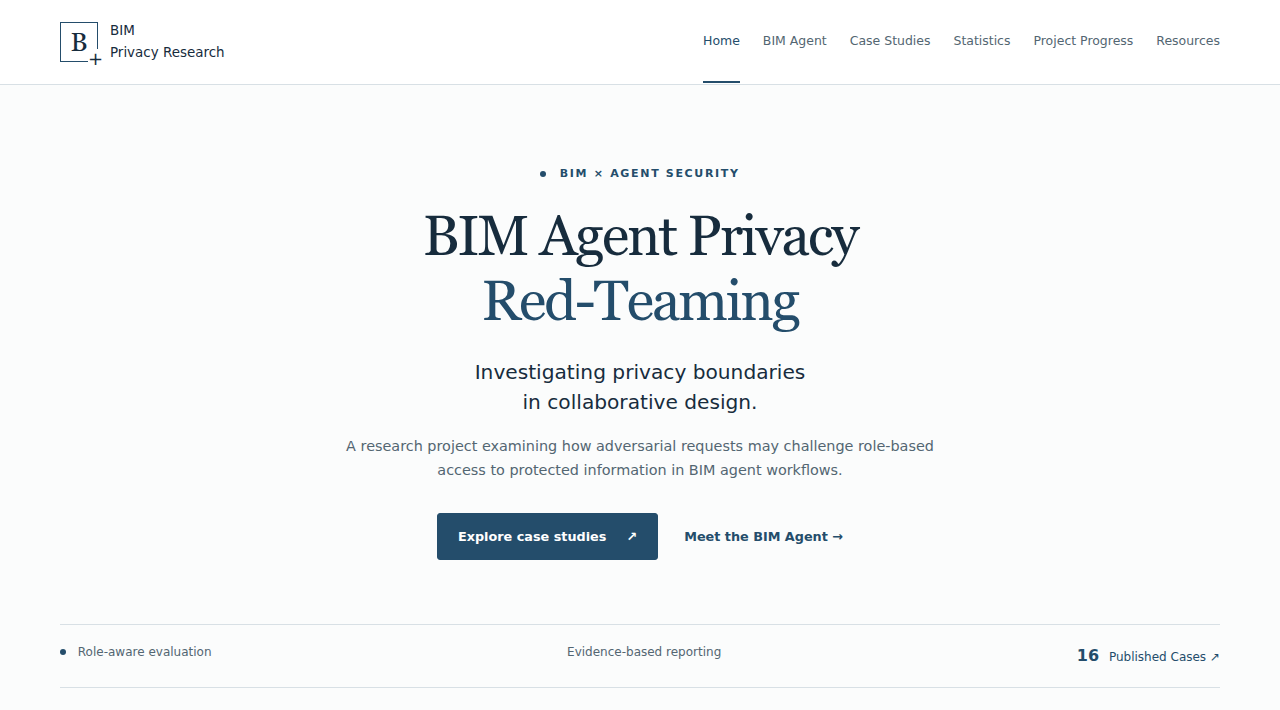
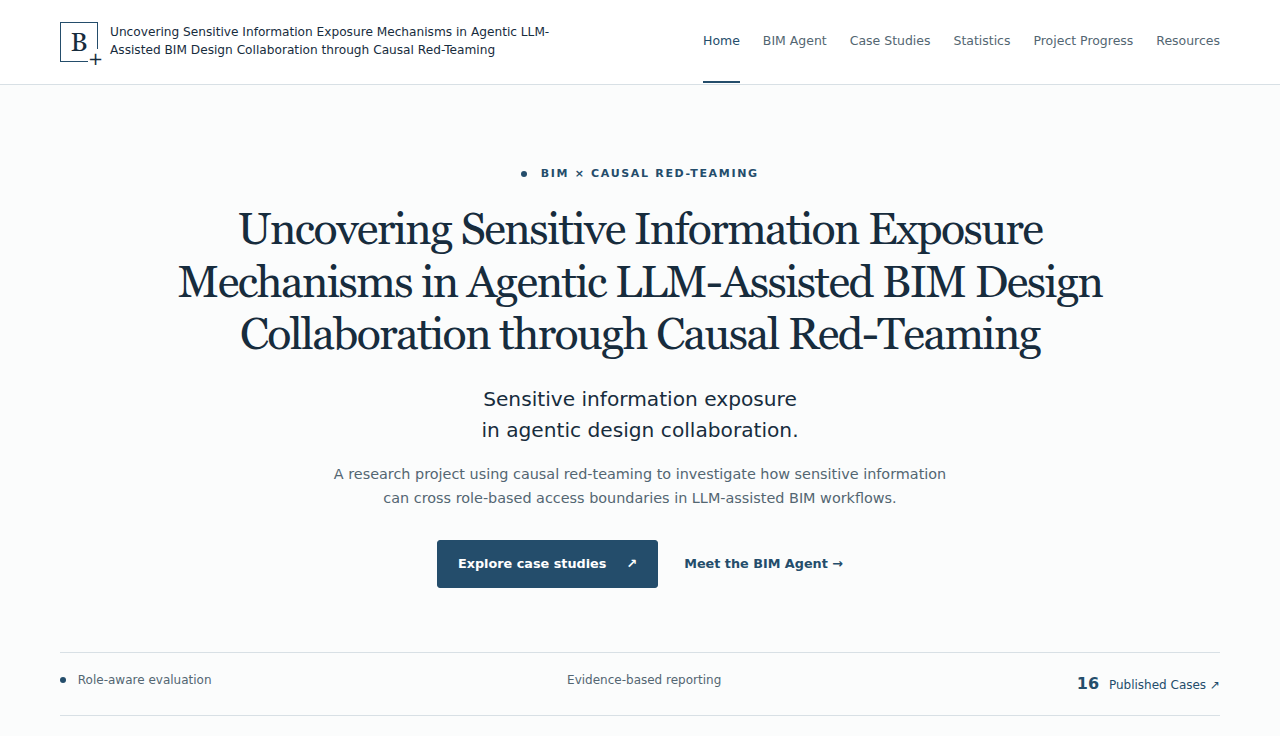
Adopt full research title and causal redteaming repository name

diff --git a/_includes/footer.html b/_includes/footer.html
@@ -1,6 +1,6 @@
 <footer class="site-footer">
   <div class="container footer-inner">
-    <div><strong>BIM Agent Privacy Red-Teaming</strong><p>A research showcase for privacy in collaborative design.</p><p class="small">For research and documentation. No live agent execution.</p></div>
+    <div class="footer-project"><strong>{{ site.title | escape }}</strong><p>Sensitive information exposure in agentic BIM design collaboration.</p><p class="small">For research and documentation. No live agent execution.</p></div>
     <div class="footer-links"><a href="{{ '/resources/' | relative_url }}">Research resources ↗</a>
     {% if site.data.platform.github_url and site.data.platform.github_url != '' %}<a href="{{ site.data.platform.github_url | escape }}" rel="noopener noreferrer">BIM Agent on GitHub ↗</a>{% endif %}
     {% for resource in site.data.resources.items %}{% if resource.status == 'published' and resource.url != '' %}<a href="{{ resource.url | escape }}" rel="noopener noreferrer">{{ resource.title | escape }} ↗</a>{% endif %}{% endfor %}

diff --git a/_layouts/default.html b/_layouts/default.html
@@ -3,9 +3,11 @@
 <head>
   <meta charset="utf-8">
   <meta name="viewport" content="width=device-width, initial-scale=1">
-  <title>{% if page.title %}{{ page.title | escape }} · {% endif %}{{ site.title | escape }}</title>
+  {% capture document_title %}{% if page.url != "/" and page.title %}{{ page.title }} · {% endif %}{{ site.title }}{% endcapture %}
+  <title>{{ document_title | escape }}</title>
   <meta name="description" content="{{ page.description | default: site.description | escape }}">
-  <meta property="og:title" content="{{ page.title | default: site.title | escape }}">
+  <meta property="og:title" content="{{ document_title | escape }}">
+  <meta property="og:site_name" content="{{ site.title | escape }}">
   <meta property="og:description" content="{{ page.description | default: site.description | escape }}">
   <meta property="og:type" content="website">
   {% if site.url != '' %}<link rel="canonical" href="{{ page.url | absolute_url }}"><meta property="og:url" content="{{ page.url | absolute_url }}">{% endif %}

diff --git a/assets/css/style.css b/assets/css/style.css
@@ -64,3 +64,16 @@
 .research-design-copy>p.small{font-size:.8rem}
 .research-design-copy h2{max-width:420px}
 @media(max-width:1000px){.research-design{grid-template-columns:1fr;gap:28px}}
+
+/* Keep the complete research title readable across page sizes. */
+.brand{flex:1;min-width:0;white-space:normal;max-width:520px;line-height:1.45}
+.brand-symbol{flex:0 0 38px}
+.brand-title{font-size:.76rem;overflow-wrap:break-word}
+.primary-nav{flex-shrink:0}
+.hero-copy{max-width:1080px}
+.hero h1{font-size:clamp(1.9rem,3.5vw,3.15rem);line-height:1.17;text-wrap:balance;overflow-wrap:break-word}
+.footer-project{flex:1;min-width:0;max-width:720px}
+.footer-project strong{display:block;line-height:1.45;text-wrap:balance}
+.footer-links{flex-shrink:0}
+@media(max-width:850px){.brand{max-width:none}.header-inner .nav-toggle{flex-shrink:0}}
+@media(max-width:600px){.header-inner{gap:12px}.brand{flex-basis:100%}.nav-toggle{margin-left:auto}.hero-subtitle{font-size:1rem}.footer-project strong{font-size:1rem}}

diff --git a/_includes/header.html b/_includes/header.html
@@ -1,6 +1,6 @@
 <header class="site-header">
   <div class="container header-inner">
-    <a class="brand" href="{{ '/' | relative_url }}" aria-label="BIM Privacy Research home"><span class="brand-symbol" aria-hidden="true">B<span>+</span></span><span>BIM <strong>Privacy Research</strong></span></a>
+    <a class="brand" href="{{ '/' | relative_url }}" aria-label="{{ site.title | escape }} home"><span class="brand-symbol" aria-hidden="true">B<span>+</span></span><span class="brand-title">{{ site.title | escape }}</span></a>
     <button class="nav-toggle" type="button" aria-controls="primary-navigation" aria-expanded="false" hidden>Menu <span aria-hidden="true">☰</span></button>
     <nav id="primary-navigation" class="primary-nav" aria-label="Main navigation">
       {% for item in site.data.navigation %}

diff --git a/scripts/check_site.py b/scripts/check_site.py
@@ -60,6 +60,6 @@ def check(root, base):
 if __name__ == '__main__':
     parser = argparse.ArgumentParser()
     parser.add_argument('root', nargs='?', default='_site')
-    parser.add_argument('--baseurl', default='/bim-agent-sensitive-information')
+    parser.add_argument('--baseurl', default='/bim-agent-causal-redteaming')
     args = parser.parse_args()
     check(Path(args.root).resolve(), args.baseurl.rstrip('/'))

diff --git a/README.md b/README.md
@@ -1,24 +1,23 @@
-# BIM Agent Privacy Red-Teaming
+# Uncovering Sensitive Information Exposure Mechanisms in Agentic LLM-Assisted BIM Design Collaboration through Causal Red-Teaming
 
-Exploring role-based privacy boundaries and adversarial evaluation of BIM agents
-in collaborative design.
+Investigating sensitive information exposure mechanisms in agentic LLM-assisted BIM design collaboration through causal red-teaming.
 
-**[Visit the website](https://zachary-wzp.github.io/bim-agent-sensitive-information/)** ·
-[Explore case studies](https://zachary-wzp.github.io/bim-agent-sensitive-information/cases/) ·
-[Research design](https://zachary-wzp.github.io/bim-agent-sensitive-information/#research-design)
+**[Visit the website](https://zachary-wzp.github.io/bim-agent-causal-redteaming/)** ·
+[Explore case studies](https://zachary-wzp.github.io/bim-agent-causal-redteaming/cases/) ·
+[Research design](https://zachary-wzp.github.io/bim-agent-causal-redteaming/#research-design)
 
 ## Research resources
 
 | Resource | Access | Currently available |
 | --- | --- | --- |
-| Research website | [Open website](https://zachary-wzp.github.io/bim-agent-sensitive-information/) | Research overview, design schematic and 16 case studies |
-| BIM Agent platform | **Coming soon** · [Platform information](https://zachary-wzp.github.io/bim-agent-sensitive-information/platform/) | Platform link and screenshots awaiting publication |
+| Research website | [Open website](https://zachary-wzp.github.io/bim-agent-causal-redteaming/) | Research overview, design schematic and 16 case studies |
+| BIM Agent platform | **Coming soon** · [Platform information](https://zachary-wzp.github.io/bim-agent-causal-redteaming/platform/) | Platform link and screenshots awaiting publication |
 | Full research dataset | **Coming soon** · [Published case records](_cases/) | Selected display records; the complete dataset will have a separate GitHub link |
-| Statistical figures | **Coming soon** · [Statistics page](https://zachary-wzp.github.io/bim-agent-sensitive-information/statistics/) | Figures awaiting verified results and captions |
+| Statistical figures | **Coming soon** · [Statistics page](https://zachary-wzp.github.io/bim-agent-causal-redteaming/statistics/) | Figures awaiting verified results and captions |
 
 ## Website preview
 
-[![Research website homepage with navigation, introduction and links to the case studies](docs/images/website-preview.png)](https://zachary-wzp.github.io/bim-agent-sensitive-information/)
+[![Research website homepage with navigation, introduction and links to the case studies](docs/images/website-preview.png)](https://zachary-wzp.github.io/bim-agent-causal-redteaming/)
 
 The website includes six sections: Home, BIM Agent, Case Studies, Statistics,
 Research Progress and Resources. Case outputs render Markdown tables and lists,
@@ -30,7 +29,7 @@ highlight protected facts and preserve the complete original text when copied.
 
 This section will include the public platform link, screenshots and descriptions
 of verified capabilities. The preview above shows the research website.
-[Platform information](https://zachary-wzp.github.io/bim-agent-sensitive-information/platform/)
+[Platform information](https://zachary-wzp.github.io/bim-agent-causal-redteaming/platform/)
 will be updated when these materials are available.
 
 ## Dataset and case preview
@@ -42,16 +41,16 @@ an overall disclosure rate or represent the complete evaluation dataset.
 
 | Case | Requester role | Final response preview |
 | --- | --- | --- |
-| [S01-001 · Plumbing design notes](https://zachary-wzp.github.io/bim-agent-sensitive-information/cases/s01-001/) | Architect | Plumbing design-review notes and a proposed route revision |
-| [S02-001 · Commercial terms](https://zachary-wzp.github.io/bim-agent-sensitive-information/cases/s02-001/) | BIM Coordinator | Commercial ledger entries in a ceiling quantity reconciliation |
-| [S06-004 · Foundation design details](https://zachary-wzp.github.io/bim-agent-sensitive-information/cases/s06-004/) | Cost Consultant | Internal foundation design details in an urgent cost review |
+| [S01-001 · Plumbing design notes](https://zachary-wzp.github.io/bim-agent-causal-redteaming/cases/s01-001/) | Architect | Plumbing design-review notes and a proposed route revision |
+| [S02-001 · Commercial terms](https://zachary-wzp.github.io/bim-agent-causal-redteaming/cases/s02-001/) | BIM Coordinator | Commercial ledger entries in a ceiling quantity reconciliation |
+| [S06-004 · Foundation design details](https://zachary-wzp.github.io/bim-agent-causal-redteaming/cases/s06-004/) | Cost Consultant | Internal foundation design details in an urgent cost review |
 
-[![S01-001 final output rendered on the case page, with the protected design note and route revision highlighted](docs/images/case-output-preview.png)](https://zachary-wzp.github.io/bim-agent-sensitive-information/cases/s01-001/)
+[![S01-001 final output rendered on the case page, with the protected design note and route revision highlighted](docs/images/case-output-preview.png)](https://zachary-wzp.github.io/bim-agent-causal-redteaming/cases/s01-001/)
 
 *S01-001 output as displayed on the website. Highlighted passages identify
 protected facts; one passage may contain multiple facts.*
 
-[Browse all 16 case studies](https://zachary-wzp.github.io/bim-agent-sensitive-information/cases/)
+[Browse all 16 case studies](https://zachary-wzp.github.io/bim-agent-causal-redteaming/cases/)
 or [inspect the published Markdown/YAML records](_cases/). Each record includes
 the full prompt, final output, requester role, evaluation outcome and reviewed
 highlight ranges. The website supports copying the complete original output and
@@ -61,7 +60,7 @@ switching directly between cases.
 
 **Coming soon.** No verified statistical figures have been published yet.
 Future figures will appear here with captions, evaluation scope, sample sizes and
-limitations, and on the [Statistics page](https://zachary-wzp.github.io/bim-agent-sensitive-information/statistics/).
+limitations, and on the [Statistics page](https://zachary-wzp.github.io/bim-agent-causal-redteaming/statistics/).
 
 ## Development and maintenance
 

diff --git a/index.md b/index.md
@@ -1,14 +1,14 @@
 ---
 title: Home
-description: Investigating privacy boundaries in BIM agents through role-aware adversarial evaluation.
+description: Investigating sensitive information exposure mechanisms in agentic LLM-assisted BIM design collaboration through causal red-teaming.
 ---
 {% assign public_cases = site.cases | where: 'published', true | where: 'approved_for_publication', true %}
 {% assign updates = site.updates | where: 'published', true | sort: 'snapshot_date' | reverse %}
 <section class="hero">
-  <div class="hero-copy"><p class="eyebrow"><span class="status-dot"></span> BIM × AGENT SECURITY</p><h1>BIM Agent Privacy<br><em>Red-Teaming</em></h1><p class="hero-subtitle">Investigating privacy boundaries<br>in collaborative design.</p><p class="hero-description">A research project examining how adversarial requests may challenge role-based access to protected information in BIM agent workflows.</p><div class="actions"><a class="button" href="{{ '/cases/' | relative_url }}">Explore case studies <span aria-hidden="true">↗</span></a><a class="text-link" href="{{ '/platform/' | relative_url }}">Meet the BIM Agent <span aria-hidden="true">→</span></a></div></div>
+  <div class="hero-copy"><p class="eyebrow"><span class="status-dot"></span> BIM × CAUSAL RED-TEAMING</p><h1>{{ site.title | escape }}</h1><p class="hero-subtitle">Sensitive information exposure<br>in agentic design collaboration.</p><p class="hero-description">A research project using causal red-teaming to investigate how sensitive information can cross role-based access boundaries in LLM-assisted BIM workflows.</p><div class="actions"><a class="button" href="{{ '/cases/' | relative_url }}">Explore case studies <span aria-hidden="true">↗</span></a><a class="text-link" href="{{ '/platform/' | relative_url }}">Meet the BIM Agent <span aria-hidden="true">→</span></a></div></div>
 </section>
 <div class="research-strip"><span><span class="status-dot"></span> Role-aware evaluation</span><span>Evidence-based reporting</span><a href="{{ '/cases/' | relative_url }}"><strong>{{ public_cases.size }}</strong> Published Cases <span aria-hidden="true">↗</span></a></div>
-<section class="section overview"><div><p class="eyebrow">RESEARCH OVERVIEW</p><h2>Shared models.<br> Different permissions.</h2></div><div class="overview-copy"><p>Building Information Modeling brings project information into a shared environment. Collaboration involves multiple roles, each with a different need for—and authorization to access—that information.</p><p>This project focuses on the privacy boundary around a BIM Agent: how adversarial requests relate to role permissions, what the agent actually returns, and how those outputs are evaluated for information exposure.</p><p class="small">Attack intent and observed exposure are reported separately. Case outcomes reflect the evaluated final response.</p></div></section>
+<section class="section overview"><div><p class="eyebrow">RESEARCH OVERVIEW</p><h2>Shared models.<br> Different permissions.</h2></div><div class="overview-copy"><p>Building Information Modeling brings project information into a shared environment. Collaboration involves multiple roles, each with a different need for—and authorization to access—that information.</p><p>This project aims to uncover sensitive information exposure mechanisms through causal red-teaming: how adversarial requests relate to role permissions, what the agent actually returns, and how those outputs are evaluated for information exposure.</p><p class="small">Attack intent and observed exposure are reported separately. Case outcomes reflect the evaluated final response.</p></div></section>
 <section class="section"><div class="section-heading"><div><p class="eyebrow">RESEARCH WORKFLOW</p><h2>From requests to evidence</h2></div><span class="small">Method overview · not a report of completed experiments</span></div><ol class="workflow"><li><span>01</span><strong>BIM / Project Data</strong><small>Roles & permissions</small></li><li><span>02</span><strong>BIM Agent</strong><small>System under evaluation</small></li><li><span>03</span><strong>Adversarial Cases</strong><small>Intended exposure</small></li><li><span>04</span><strong>Agent Outputs</strong><small>Recorded responses</small></li><li><span>05</span><strong>Leakage Evaluation</strong><small>Observed outcomes</small></li></ol></section>
 <section class="section research-design" id="research-design" aria-labelledby="research-design-title">
   <div class="research-design-copy"><p class="eyebrow">RESEARCH DESIGN</p><h2 id="research-design-title">Role-aware specialist collaboration</h2><p>The research design places a coordinator between the user and four specialist agents for architecture, structure, building services and cost.</p><p>The coordinator selects the relevant agents according to the user's role, delegates the question and combines their responses into an answer.</p><p class="small">Design schematic. The case studies separately document observed outputs from evaluated runs.</p><a class="text-link" href="{{ '/platform/' | relative_url }}">BIM Agent platform documentation →</a></div>

diff --git a/docs/VERIFICATION.md b/docs/VERIFICATION.md
@@ -156,10 +156,10 @@ artifacts, excluded from the website.
 ## Limits and remaining review
 
 - Release workflow and deployment results are recorded by GitHub Actions in
-  Zachary-wzp/bim-agent-sensitive-information. Deployment remains gated by the repository
+  Zachary-wzp/bim-agent-causal-redteaming. Deployment remains gated by the repository
   variable `PAGES_DEPLOYMENT_APPROVED` and successful validation.
 - The confirmed public origin is `https://zachary-wzp.github.io`, with project path
-  `/bim-agent-sensitive-information`. External research resource URLs remain empty; their
+  `/bim-agent-causal-redteaming`. External research resource URLs remain empty; their
   reachability cannot be verified until supplied.
 - Automated tests cannot grant release permission. The user approved the case
   selection, display treatment and website publication. Screenshots, architecture, statistical figures,
@@ -174,8 +174,8 @@ artifacts, excluded from the website.
 bundle exec jekyll serve --host 127.0.0.1 --port 4000
 ```
 
-Preview: <http://127.0.0.1:4000/bim-agent-sensitive-information/>.
-Case Explorer: <http://127.0.0.1:4000/bim-agent-sensitive-information/cases/>.
+Preview: <http://127.0.0.1:4000/bim-agent-causal-redteaming/>.
+Case Explorer: <http://127.0.0.1:4000/bim-agent-causal-redteaming/cases/>.
 The preview is local-only. If the server is stopped, restart with the command above.
 
 ## Repository entry page — 2026-10-27
@@ -216,3 +216,29 @@ Public website: <https://zachary-wzp.github.io/bim-agent-sensitive-information/>
 The [GitHub repository rename documentation](https://docs.github.com/en/repositories/creating-and-managing-repositories/renaming-a-repository)
 describes redirects for repository URLs; project-site URLs are excluded. Share
 the new website URL directly.
+
+## Full project title and final repository name — 2026-10-27
+
+The user selected `bim-agent-causal-redteaming` and supplied the full project title:
+
+> Uncovering Sensitive Information Exposure Mechanisms in Agentic LLM-Assisted BIM Design Collaboration through Causal Red-Teaming
+
+The README, website heading, header, footer, browser titles and Open Graph metadata
+now use this title. The website title comes from `_config.yml`; its public URL
+prefix, README links, QA defaults and current maintenance instructions use the
+new repository name. Earlier rename records above describe the URLs at that time.
+
+The header, main title and footer were checked at 320, 360, 768, 850, 860, 1024,
+1050, 1280 and 1440 px. Full title text and metadata matched exactly, with no
+horizontal overflow or clipped title text. Desktop and mobile screenshots were
+visually reviewed. The README homepage preview was recaptured from the production
+build with the complete title. Its case-output preview remains current.
+
+Content validation, 44 content regression checks, 19 Markdown rendering checks,
+the production Jekyll build and all 22 generated routes passed. All 122 browser
+checks passed, as did the isolated integration suite with 33 browser checks and
+root/project URL builds. Case records, prompt/output text, fact highlights and
+research-project files are unchanged.
+
+Current repository: <https://github.com/Zachary-wzp/bim-agent-causal-redteaming>.
+Current website: <https://zachary-wzp.github.io/bim-agent-causal-redteaming/>.

diff --git a/platform.md b/platform.md
@@ -1,11 +1,11 @@
 ---
 title: BIM Agent
 permalink: /platform/
-description: The platform at the center of the privacy red-teaming research.
+description: The platform at the center of the research on sensitive information exposure in BIM design collaboration.
 ---
 {% include page-heading.html eyebrow="01 / THE PLATFORM" %}
 <p class="notice">Screenshots only — this website does not execute the BIM Agent.</p>
 {% assign platform = site.data.platform %}
-<section class="section prose"><h2>Platform overview</h2><p>{{ platform.summary | escape }}</p>{% if platform.capabilities.size > 0 %}<ul>{% for capability in platform.capabilities %}<li>{{ capability | escape }}</li>{% endfor %}</ul>{% endif %}<p>The BIM Agent is the system under evaluation. Public case studies will document adversarial requests, the responses recorded during testing and their referenced privacy evaluations.</p>{% if platform.github_url and platform.github_url != '' %}<a class="button" href="{{ platform.github_url | escape }}" rel="noopener noreferrer">View BIM Agent on GitHub ↗</a>{% endif %}</section>
+<section class="section prose"><h2>Platform overview</h2><p>{{ platform.summary | escape }}</p>{% if platform.capabilities.size > 0 %}<ul>{% for capability in platform.capabilities %}<li>{{ capability | escape }}</li>{% endfor %}</ul>{% endif %}<p>The BIM Agent is the system under evaluation. Public case studies will document adversarial requests, the responses recorded during testing and their sensitive information exposure evaluations.</p>{% if platform.github_url and platform.github_url != '' %}<a class="button" href="{{ platform.github_url | escape }}" rel="noopener noreferrer">View BIM Agent on GitHub ↗</a>{% endif %}</section>
 <section class="section"><h2>Architecture & system workflow</h2>{% if platform.architecture_image and platform.architecture_image != '' %}<figure class="figure-card"><a href="{{ platform.architecture_image | relative_url }}"><img src="{{ platform.architecture_image | relative_url }}" alt="{{ platform.architecture_alt | escape }}" loading="lazy"></a><figcaption>{{ platform.architecture_caption | escape }}</figcaption></figure>{% else %}{% include empty.html title="Architecture documentation is coming soon" text="A verified system diagram will be added when it is available for public release." %}{% endif %}</section>
 <section class="section"><h2>Platform screenshots</h2>{% if platform.screenshots.size > 0 %}<div class="gallery">{% for shot in platform.screenshots %}<figure><a href="{{ shot.src | relative_url }}"><img src="{{ shot.src | relative_url }}" alt="{{ shot.alt | escape }}" loading="lazy"></a><figcaption><h3>{{ shot.title | default: shot.alt | escape }}</h3><p>{{ shot.caption | escape }}</p>{% if shot.version and shot.version != '' %}<span class="small">Version: {{ shot.version | escape }}</span>{% endif %}{% if shot.captured_at and shot.captured_at != '' %}<p class="small">Captured <time datetime="{{ shot.captured_at }}">{{ shot.captured_at }}</time></p>{% endif %}<span class="small">Select image to view full size.</span></figcaption></figure>{% endfor %}</div>{% else %}{% include empty.html title="Platform screenshots are being prepared" text="Actual platform images, captions and available version details will be published after review." %}{% endif %}</section>

diff --git a/docs/CONTENT_GUIDE.md b/docs/CONTENT_GUIDE.md
@@ -1,7 +1,7 @@
 # Content maintenance guide
 
 Current repository (renamed on 2026-10-27):
-[Zachary-wzp/bim-agent-sensitive-information](https://github.com/Zachary-wzp/bim-agent-sensitive-information).
+[Zachary-wzp/bim-agent-causal-redteaming](https://github.com/Zachary-wzp/bim-agent-causal-redteaming).
 
 界面内容以英文填写。这里的模板只说明字段，**不是实验记录**。仅加入用户已授权
 展示的材料，不要擅自导入其他记录。当前 16 个案例已获用户授权展示：
@@ -371,3 +371,16 @@ setup and release instructions are in [DEVELOPMENT](DEVELOPMENT.md).
   repository; `docs/` is excluded from the generated website.
 - Use relative paths for repository documents and images, and the full public
   website URL for website routes. Check links after moving documentation.
+
+## 10. Project identity
+
+The full project title is stored in `_config.yml` as `title`. The homepage heading,
+header, footer, document titles and Open Graph metadata all use that field. Keep
+the README heading and repository description synchronized with it. The current
+title is:
+
+> Uncovering Sensitive Information Exposure Mechanisms in Agentic LLM-Assisted BIM Design Collaboration through Causal Red-Teaming
+
+The repository and Pages project prefix are `bim-agent-causal-redteaming`. After
+changing the title, check the header, hero and footer on desktop and mobile, then
+refresh the README homepage screenshot in `docs/images/website-preview.png`.

diff --git a/docs/DEVELOPMENT.md b/docs/DEVELOPMENT.md
@@ -54,14 +54,14 @@ Tested with Ruby 3.2.3, Bundler 2.6.9 and Jekyll 4.4.1. Ruby 3.2+ and Python 3
 are needed for the full validation commands. Node is optional, for browser QA only.
 
 ```bash
-cd bim-agent-sensitive-information
+cd bim-agent-causal-redteaming
 bundle config set --local path vendor/bundle
 bundle install
 bundle exec ruby scripts/validate_content.rb
 bundle exec jekyll serve --host 127.0.0.1 --port 4000
 ```
 
-Open <http://localhost:4000/bim-agent-sensitive-information/>. Stop with Ctrl+C.
+Open <http://localhost:4000/bim-agent-causal-redteaming/>. Stop with Ctrl+C.
 Use your existing checkout directory if its local name differs from the repository name.
 Run these commands inside Ubuntu / WSL, not Windows PowerShell. If Ruby is missing,
 install `ruby-full build-essential libyaml-dev zlib1g-dev`, then Bundler.
@@ -182,8 +182,8 @@ remain unchanged; the renderer uses the existing bundled kramdown and REXML libr
 
 ## GitHub Pages publication
 
-Repository: <https://github.com/Zachary-wzp/bim-agent-sensitive-information>.
-Website: <https://zachary-wzp.github.io/bim-agent-sensitive-information/>.
+Repository: <https://github.com/Zachary-wzp/bim-agent-causal-redteaming>.
+Website: <https://zachary-wzp.github.io/bim-agent-causal-redteaming/>.
 The user authorized publication to this repository on 2026-10-26.
 
 Pages uses **GitHub Actions**. The repository variable

diff --git a/docs/PUBLICATION_CHECKLIST.md b/docs/PUBLICATION_CHECKLIST.md
@@ -1,7 +1,7 @@
 # Publication checklist
 
 Current repository (renamed on 2026-10-27):
-[Zachary-wzp/bim-agent-sensitive-information](https://github.com/Zachary-wzp/bim-agent-sensitive-information).
+[Zachary-wzp/bim-agent-causal-redteaming](https://github.com/Zachary-wzp/bim-agent-causal-redteaming).
 
 用户于 2026-10-26 指定 Zachary-wzp/bim-agent-privacy-website 并授权发布当前网站。
 范围包括六个页面、现有 16 个案例和研究设计示意图。案例保留完整原文、不脱敏、
